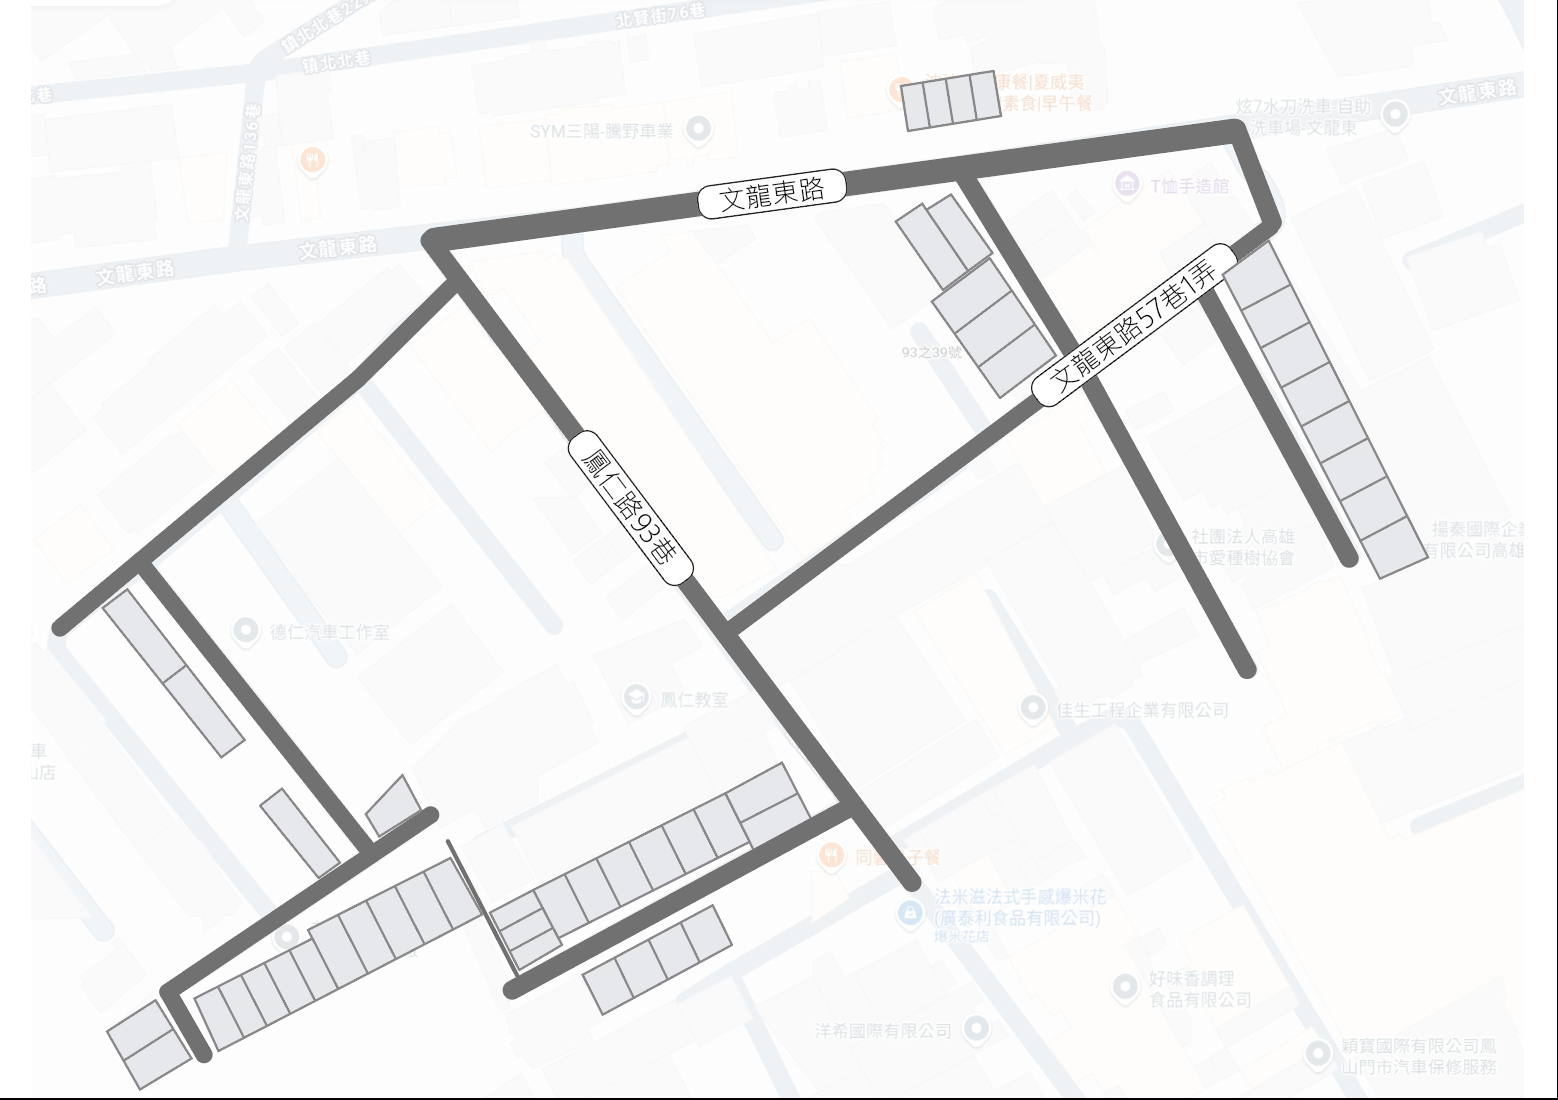
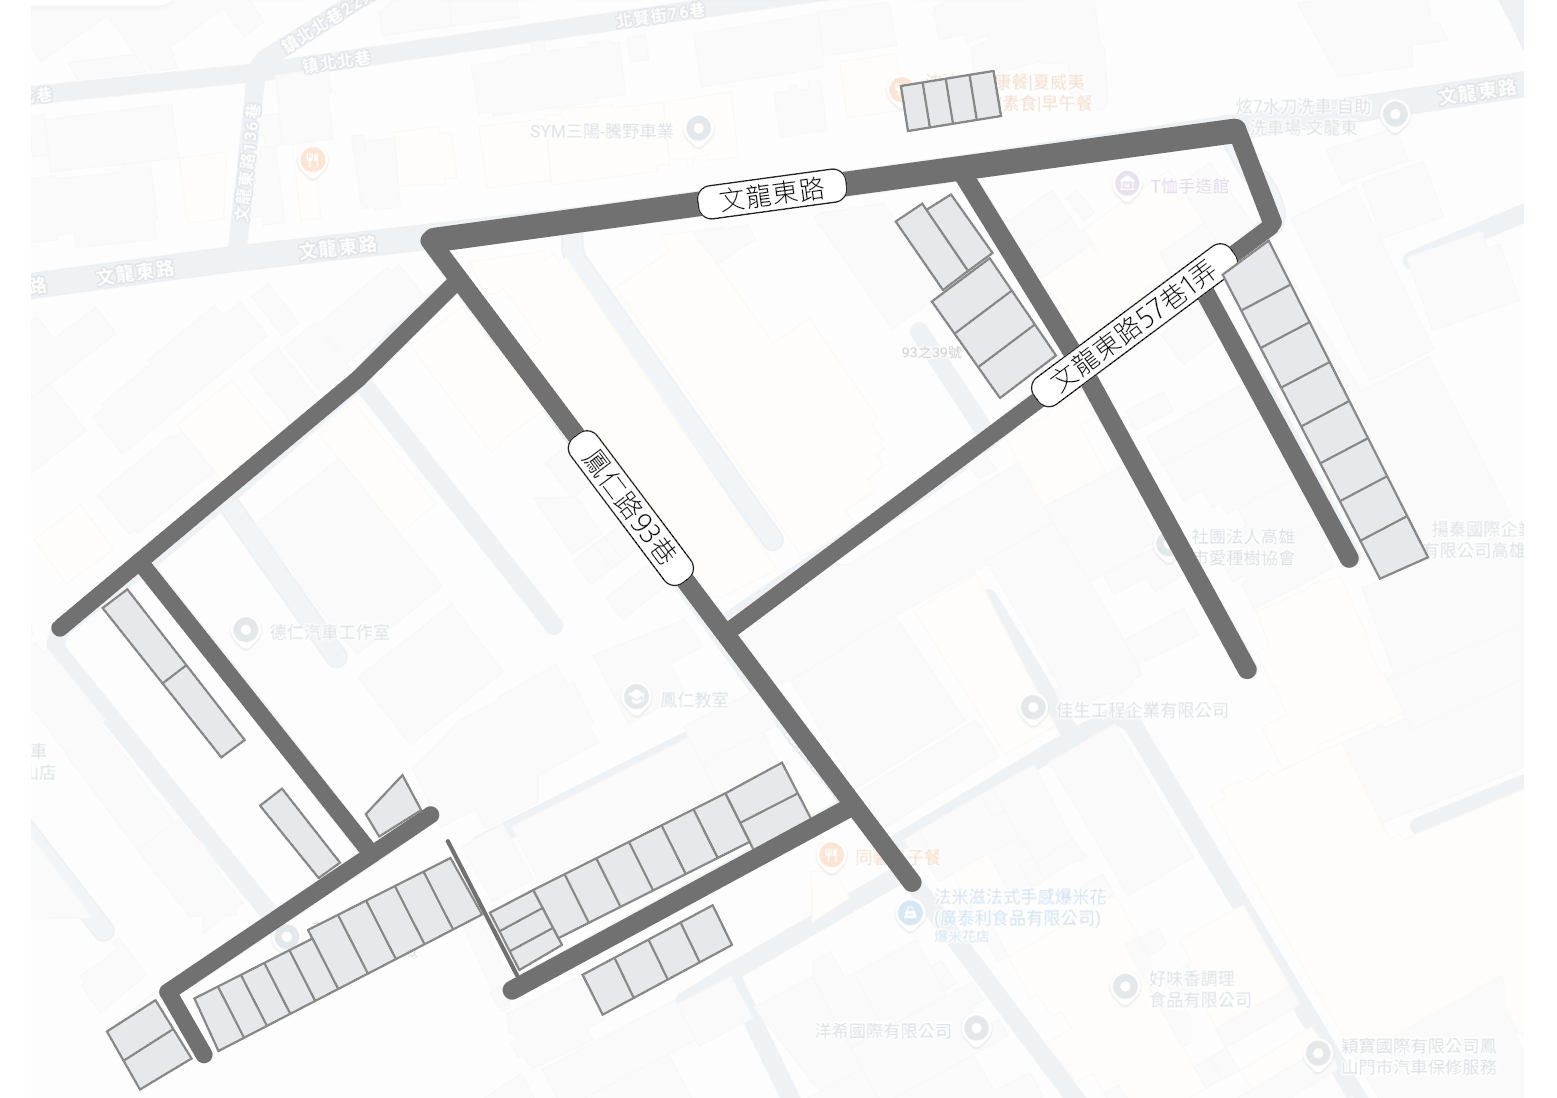
下午5:08：平面圖黑邊去掉

diff --git a/index.html b/index.html
@@ -13,8 +13,8 @@
   <link rel="manifest" href="manifest.json" />
   <link rel="apple-touch-icon" href="apple-touch-icon.png" />
   <title>統潔＆信潔開發有限公司 — 租房管理</title>
-  <link rel="stylesheet" href="app.css?v=0708" />
-  <link rel="stylesheet" href="work-scroll.css?v=0708" />
+  <link rel="stylesheet" href="app.css?v=0709" />
+  <link rel="stylesheet" href="work-scroll.css?v=0709" />
   <style>
     html, body { margin: 0; background: #ffffff; }
     #splash {
@@ -51,8 +51,8 @@
       catch (e) { return false; }
     }
   </script>
-  <script src="app.js?v=0708"></script>
-  <script src="work-enhance.js?v=0708"></script>
+  <script src="app.js?v=0709"></script>
+  <script src="work-enhance.js?v=0709"></script>
   <script>setTimeout(function(){ var s=document.getElementById("splash"); if(s) s.classList.add("out"); }, 3500);</script>
 </body>
 </html>

diff --git a/app.css b/app.css
@@ -5515,12 +5515,14 @@ html[data-theme="void"] .site-chip {
   background: #f4f4f2;
   touch-action: none;
   overscroll-behavior: contain;
+  scrollbar-width: none;
 }
+.asset-map-wrap::-webkit-scrollbar { width: 0; height: 0; display: none; }
 .asset-map-wrap.is-portrait { max-height: 78vh; }
 .asset-map-turn { position: relative; }
 .asset-map-wrap.is-portrait .asset-map-turn {
   height: 0;
-  padding-top: 141.636%;
+  padding-top: 141.803%;
 }
 .asset-map {
   position: relative;
@@ -5530,7 +5532,7 @@ html[data-theme="void"] .site-chip {
   position: absolute;
   top: 0;
   left: 100%;
-  width: 141.636%;
+  width: 141.803%;
   min-width: 0;
   height: auto;
   transform: rotate(90deg);

diff --git a/sw.js b/sw.js
@@ -1,5 +1,5 @@
-const CACHE = "tongjie-app-v1223";
-const BUILD = "20260923-0708";
+const CACHE = "tongjie-app-v1224";
+const BUILD = "20260923-0709";
 const FILES = ["/", "/index.html", "/app.css", "/app.js", "/work-scroll.css", "/work-enhance.js", "/manifest.json", "/icon-192.png", "/icon-512.png", "/icon-maskable-512.png"];
 self.addEventListener("install", e => {
   self.skipWaiting();
